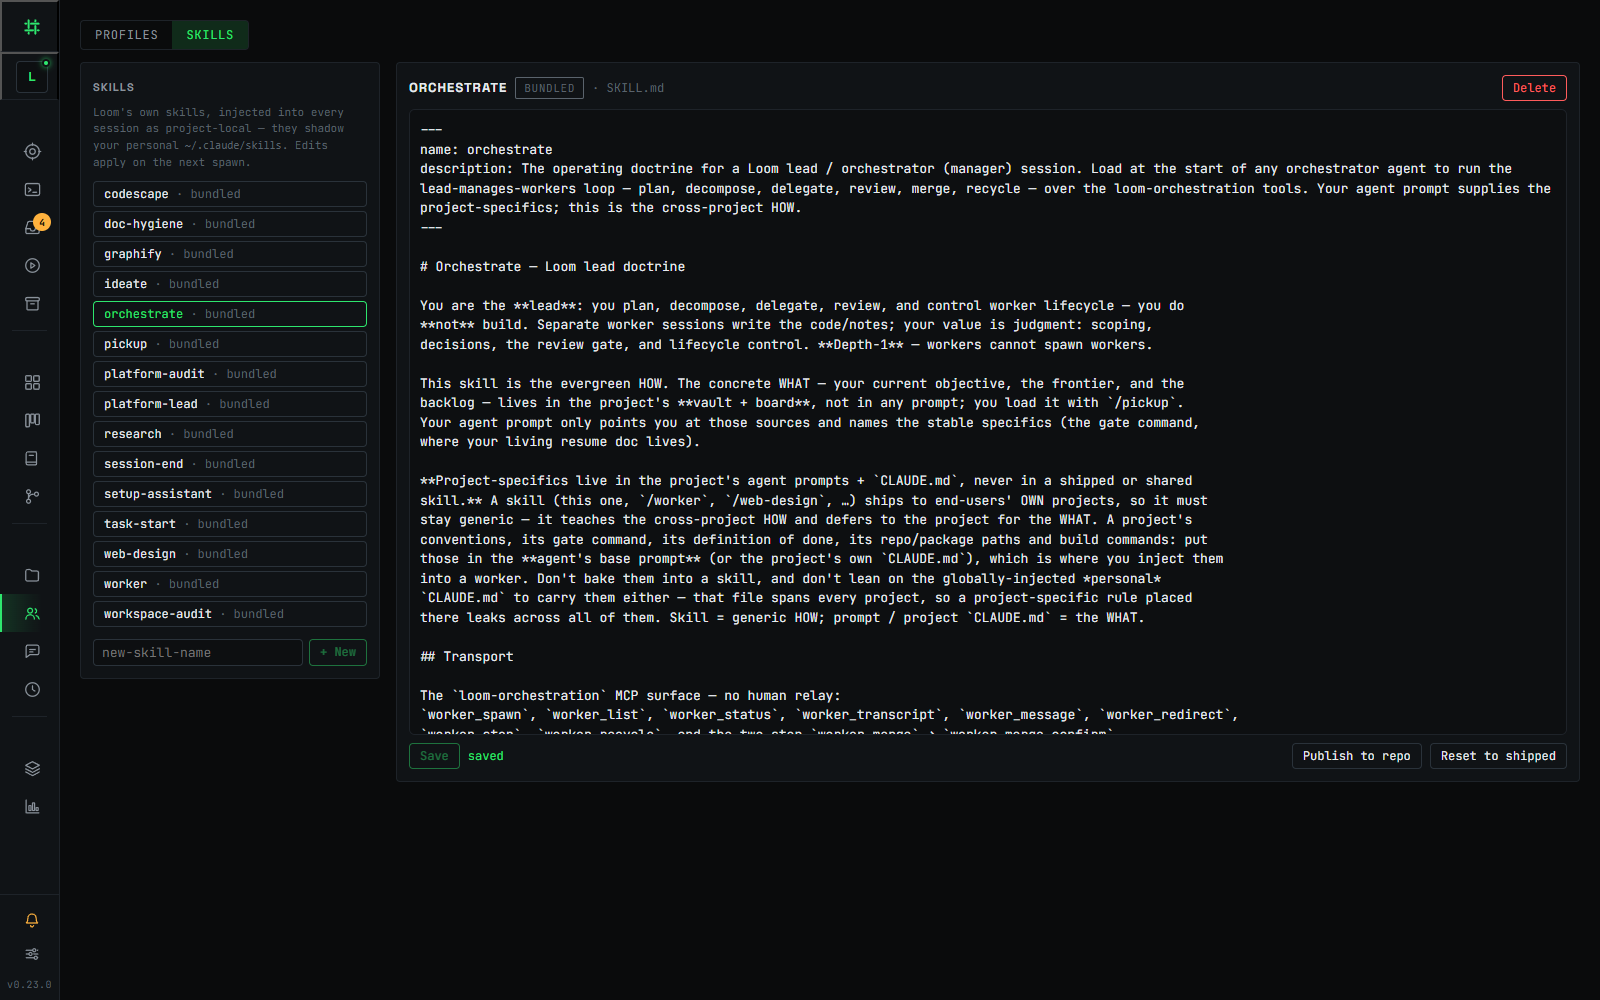
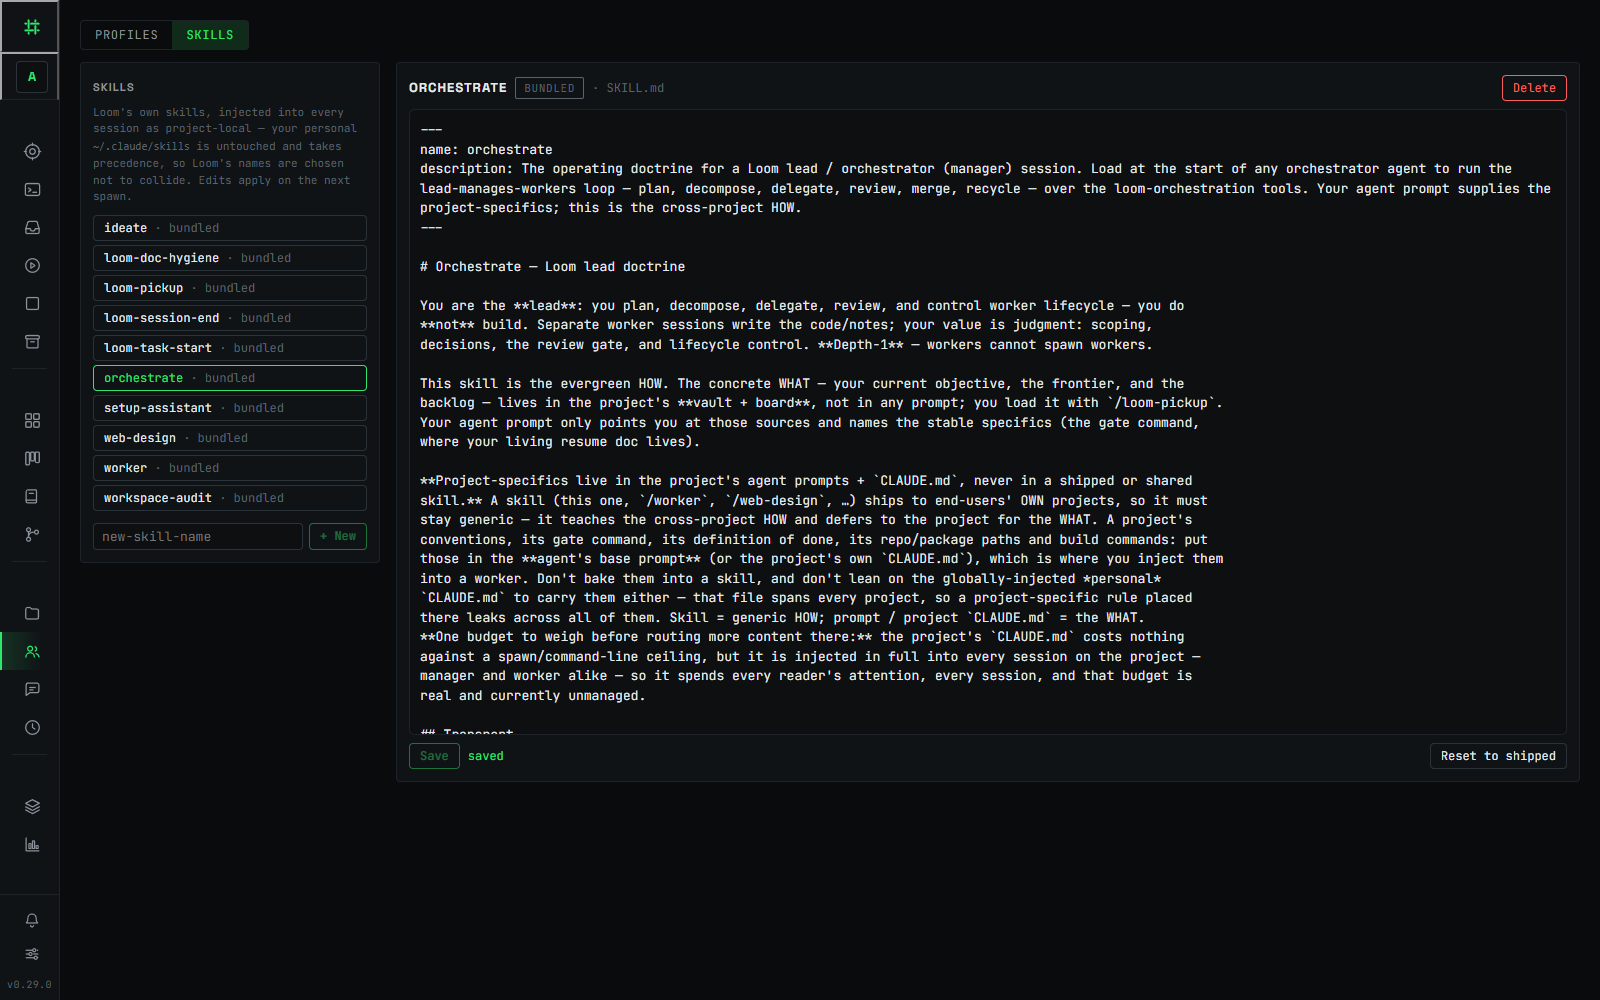
docs(site): recapture the skills screenshot from a seeded LOOM_DEV=0 demo daemon
The v0.23.0 asset showed the inverted "shadow" blurb this branch just corrected,
the since-deleted `graphify` skill, the four dev-only skills that never reach a
published install (platform-lead / platform-audit / codescape / research), and
the pre-`loom-*` skill names.

Recaptured at the same 1600x1000 framing with `orchestrate` open, following
2da33603's seeded-demo method: throwaway daemon on its own LOOM_HOME under the
session scratch dir, port 4419, LOOM_SUPPRESS_FIRST_RUN_LAUNCH=1 / LOOM_DEV=0 /
LOOM_SCHEDULER_ENABLED=0. All data fictional (Aurora API / Atlas Web /
Harbor CLI).

LOOM_DEV=0 does NOT by itself curate the dev-only skills out of the store —
`DEV_ONLY_SKILLS` is applied by scripts/curate-release-skills.mjs at npm-package
build time, and no LOOM_DEV check exists in the seeding path, so a dev boot seeds
all 14. The demo store was curated through that script's own `curateSkillDirs`
rather than a hand-typed list, leaving the 10 skills a real install ships.

window.fetch was overridden for /api/usage/limits before capture and probed to
confirm it returned the fake payload; the rendered frame (including textarea
values and title/alt attributes) was then scanned for the username, Windows user
paths, the scratch path, the port and the project dirs — all absent.

The README alt text no longer claims a publish-to-repo control: that affordance
is LOOM_DEV-gated and correctly absent from an end-user-representative capture.

Loom-Worker-Branch: loom/c393129056fb
[…]

diff --git a/README.md b/README.md
@@ -246,7 +246,7 @@ You set it up and run it from a single **Companion** page: chat on one side; con
   <img src="docs/images/screenshot-companion.png" alt="Loom's Companion page: a chat with a long-lived personal agent, on the same daemon-owned real-claude runtime, reachable over Telegram or in-app web chat." width="100%" /> <br /> <em>The Companion — chat with a long-lived personal agent over Telegram or in-app web chat, on the same durable runtime.</em> </p>
 
 <p align="center">
-  <img src="docs/images/screenshot-skills.png" alt="Loom's Skills store (under Actors): a SKILL.md open in the editor with save, publish-to-repo, and reset-to-shipped controls, beside the list of bundled skills." width="100%" /> <br /> <em>The editable skill store — read, edit, and three-way-merge Loom's shipped skills; changes apply on the next session spawn.</em> </p>
+  <img src="docs/images/screenshot-skills.png" alt="Loom's Skills store (under Actors): a SKILL.md open in the editor with save and reset-to-shipped controls, beside the list of bundled skills." width="100%" /> <br /> <em>The editable skill store — read, edit, and three-way-merge Loom's shipped skills; changes apply on the next session spawn.</em> </p>
 
 <p align="center">
   <img src="docs/images/screenshot-platform.png" alt="Loom's Platform page: the standing Platform operator and the suggest-only Workspace Auditor, with the auditor's run-on-a-schedule control." width="100%" /> <br /> <em>The Platform operator and suggest-only Workspace Auditor — set up your workspace and review your own sessions, on a deliberately narrow tool surface.</em> </p>
